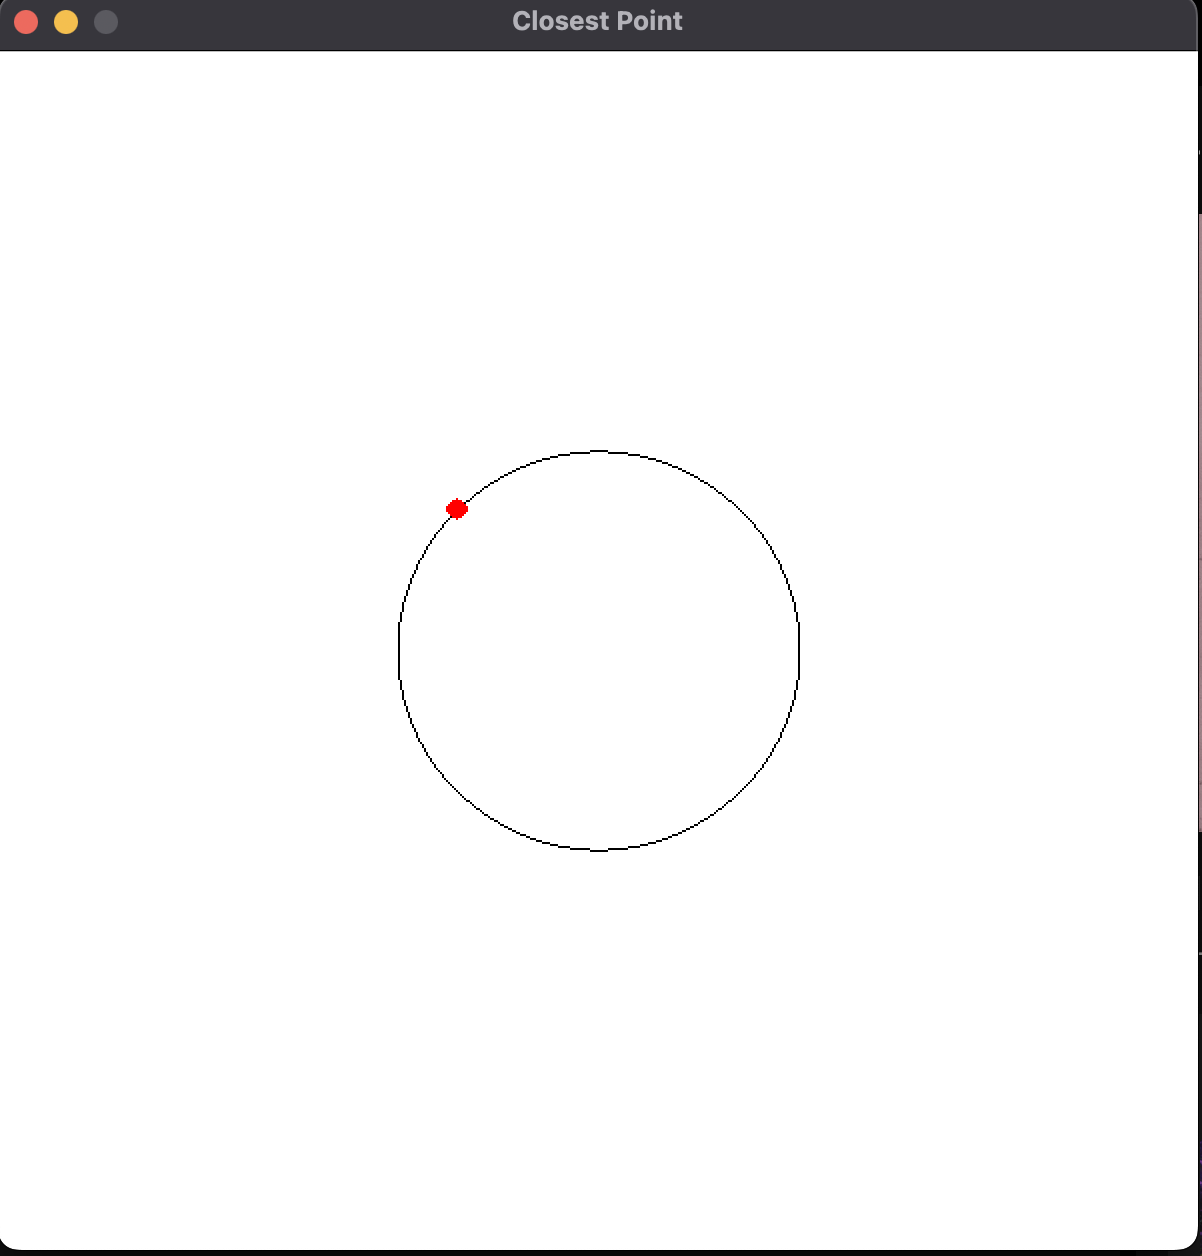
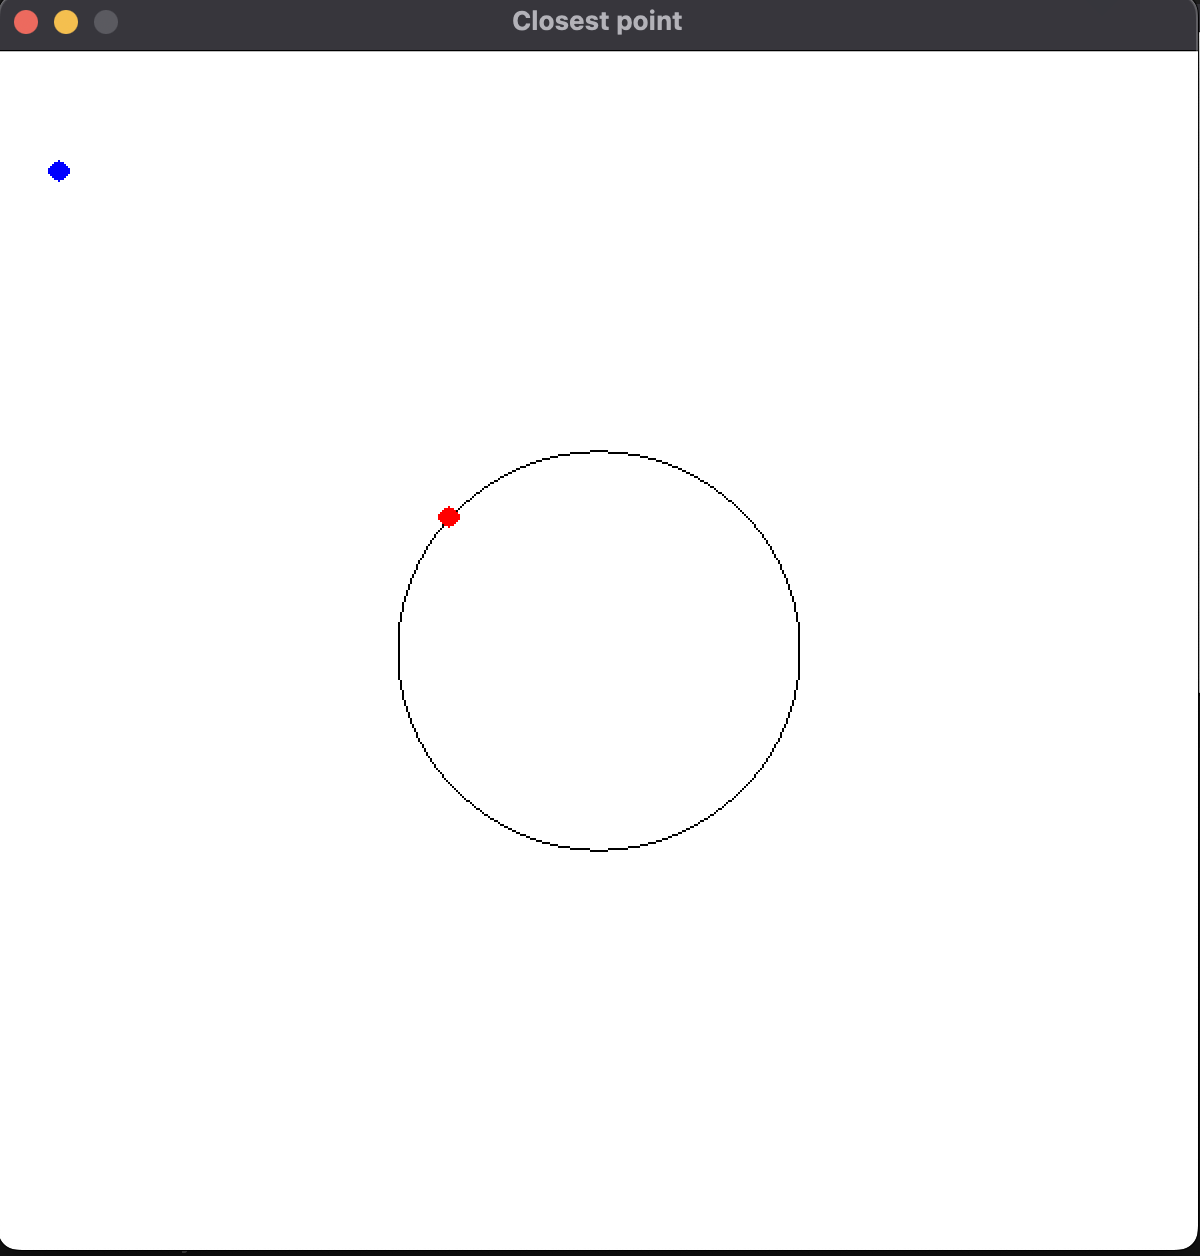
Update to draw other point

diff --git a/public/usage-examples/geometry/closest_point_on_circle/closest_point_on_circle-1-simple-oop.cs b/public/usage-examples/geometry/closest_point_on_circle/closest_point_on_circle-1-simple-oop.cs
@@ -28,8 +28,9 @@ namespace ClosestPoint
             // Get closest point to the point on circle
             Point2D close_point = SplashKit.ClosestPointOnCircle(point, circle);
 
-            // Draw circle to indicate point
+            // Draw circle to indicate points
             SplashKit.FillCircleOnWindow(wnd, Color.Red, close_point.X, close_point.Y, 5);
+            SplashKit.FillCircleOnWindow(wnd, Color.Blue, point.X, point.Y, 5);
 
             SplashKit.RefreshScreen();
 

diff --git a/public/usage-examples/geometry/closest_point_on_circle/closest_point_on_circle-1-simple.cpp b/public/usage-examples/geometry/closest_point_on_circle/closest_point_on_circle-1-simple.cpp
@@ -24,8 +24,9 @@ int main()
     // Get closest point to the point on circle 
     point_2d close_point = closest_point_on_circle(point, circle);
 
-    // Draw circle to indicate point
+    // Draw circle to indicate points
     fill_circle_on_window(wnd, COLOR_RED, close_point.x, close_point.y, 5);
+    fill_circle_on_window(wnd, COLOR_BLUE, point.x, point.y, 5);
 
     refresh_screen();
 

diff --git a/public/usage-examples/geometry/closest_point_on_circle/closest_point_on_circle-1-simple-top-level.cs b/public/usage-examples/geometry/closest_point_on_circle/closest_point_on_circle-1-simple-top-level.cs
@@ -23,8 +23,9 @@ Point2D point = new Point2D() {X = x, Y = y};
 // Get closest point to the point on circle
 Point2D close_point = ClosestPointOnCircle(point, circle);
 
-// Draw circle to indicate point
+// Draw circle to indicate points
 FillCircleOnWindow(wnd, ColorRed(), close_point.X, close_point.Y, 5);
+FillCircleOnWindow(wnd, ColorBlue(), point.X, point.Y, 5);
 
 RefreshScreen();
 

diff --git a/public/usage-examples/geometry/closest_point_on_circle/closest_point_on_circle-1-simple.py b/public/usage-examples/geometry/closest_point_on_circle/closest_point_on_circle-1-simple.py
@@ -26,8 +26,9 @@ point.y = y
 # Get closest point to the point on circle 
 close_point = closest_point_on_circle(point, circle)
 
-# Draw circle to indicate point
+# Draw circle to indicate points
 fill_circle_on_window(wnd, color_red(), close_point.x, close_point.y, 5)
+fill_circle_on_window(wnd, color_blue(), point.x, point.y, 5)
 
 refresh_screen()
 
